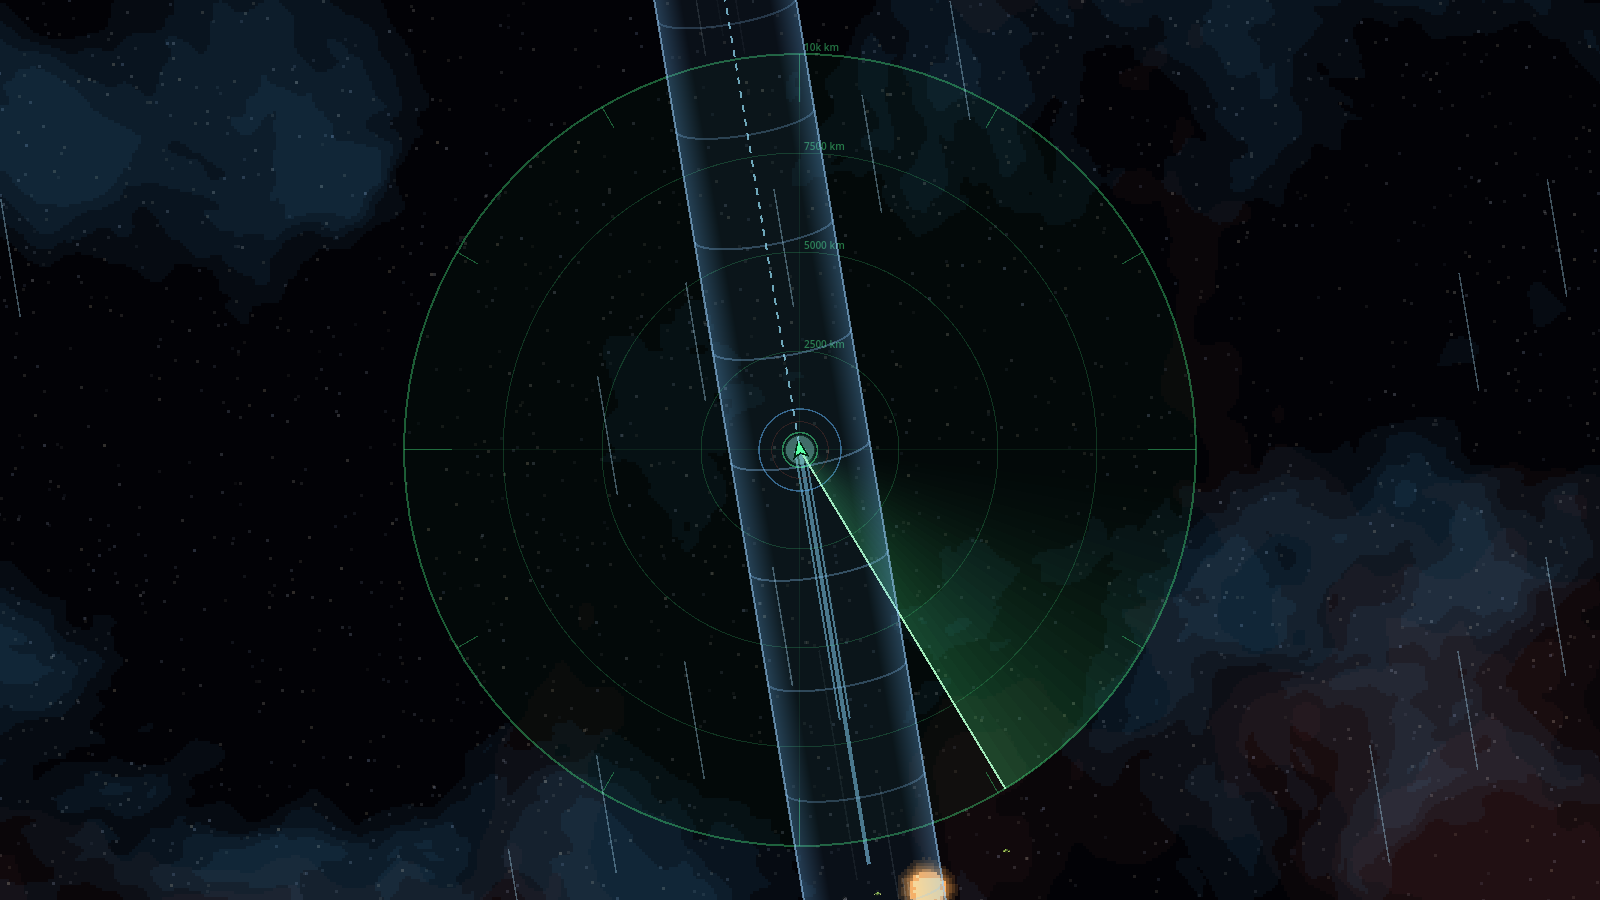
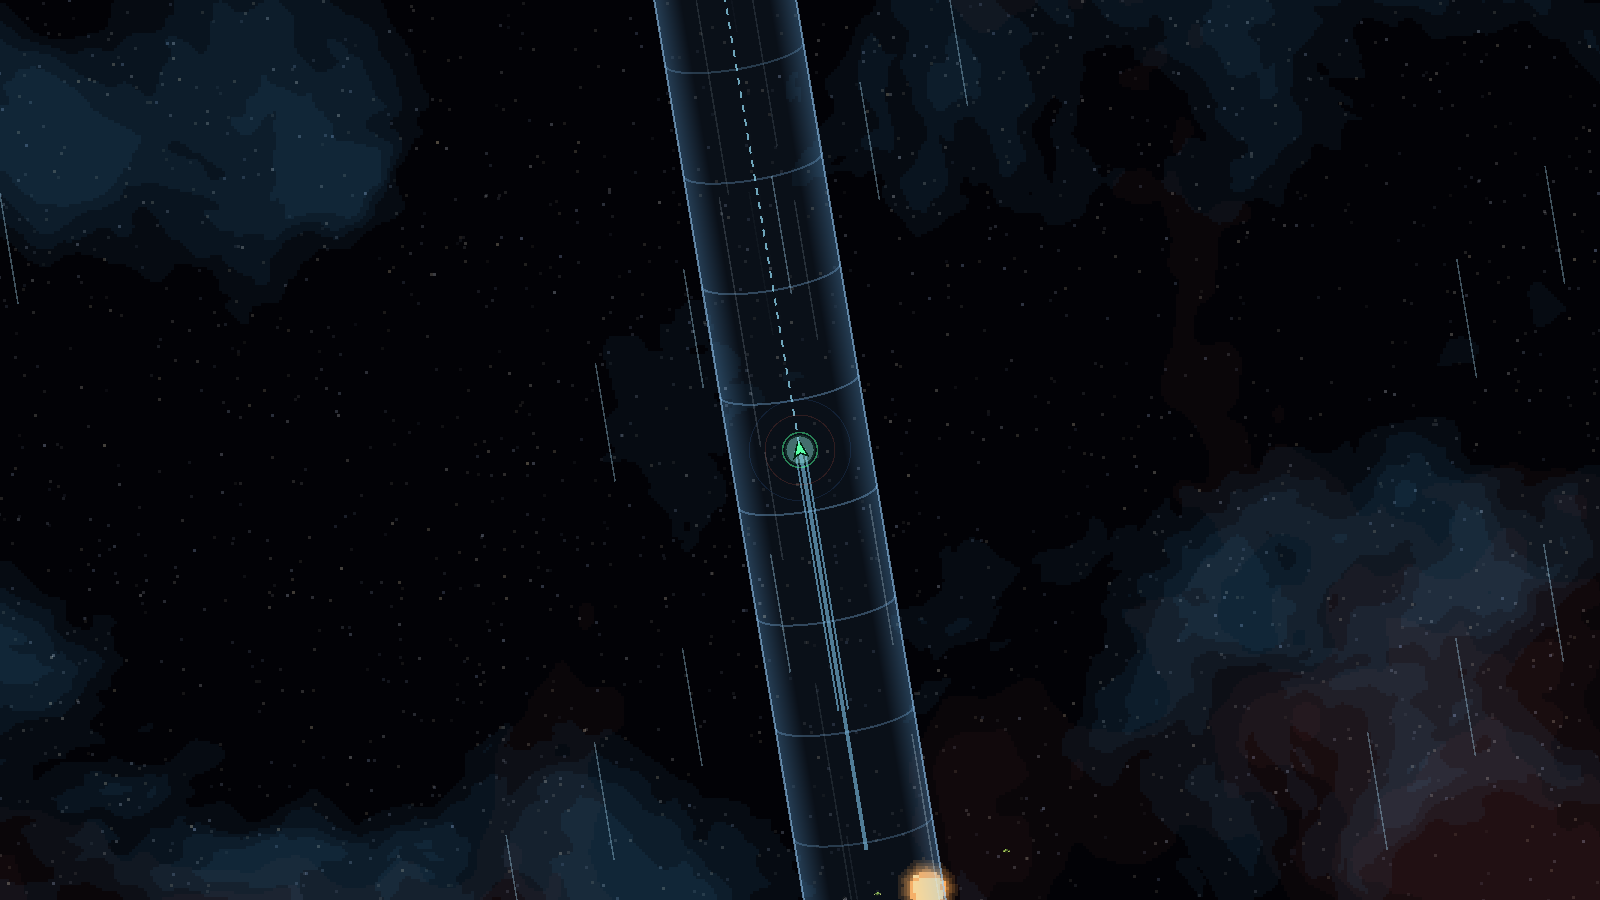
alpha 0.6.35.8: no radar during a warp

diff --git a/Roadmap.md b/Roadmap.md
@@ -17,7 +17,7 @@ Sternenfront ist ein Einzelspieler-Spiel mit zuschaltbarem Koop – wie Valheim 
 
 ## Aktueller Stand
 
-Das Spiel ist ein umfangreicher Einzelspieler-Prototyp in Godot 4.3. Phase 0 und Phase 0.5 Teil 1 bis 3 sind abgeschlossen; Teil 4 (Module and Internal Ship Parts Rework) läuft – Pakete 19 bis 24 fertig, Pakete 25a (KHI-Bergbauschiffe), 25b (Kanayama-maru), 25c (Maison Aurelle), 25d (Hadrian Dynamics), 25e (Concord Fleetworks), 25f (Forge of Return) und 25g (Axiom Astronautics) fertig – damit sind alle Manufakturen gebaut; Paket 26 (Stationstyp 0: Raststationen mit Landeplattformen) fertig; Paket 27 (Stationsübersicht, Ausrüster, Kurzbeschreibungen, Geschwindigkeit) fertig – damit sind alle Pakete von Teil 4 umgesetzt. Code-Review von Teil 4 gemacht (Bericht `reviews/teil4_review.md`), alle Befunde sind abgearbeitet (0.4.25.46 und 0.4.25.47) – Teil 4 abgeschlossen. **Teil 5 läuft:** Paket 28a (Audio-Grundgerüst), die Menüsteuerung per Tastatur und Paket 28 (Pilot & Charaktererstellung) und Paket 29 (Fähigkeiten + Pilot-Fenster) fertig, Fortschritts-Mechanik am 7. Nov neu entschieden (Fähigkeiten automatisch, Pilotenlevel, Perks, Skilltree über Leistungen); Paket 30 (Perks, Skilltree über Leistungen, Baupläne) fertig und der Skilltree in 0.5.30.2 als gezeichneter Baum nach Tätigkeiten neu gebaut (alles kaufbar, nutzbar erst mit Kachel), Paket 31 (Crew-System & The Bar, mit 32 zusammengelegt) fertig, Paket 31a (Game Over: Rettungskapseln, Rückkauf, Respawn) fertig, Paket 33 (Wingmen und Citadel-Plattform) fertig, Paket 34 (Codex-Einträge, Sammlung, berüchtigte Piraten als Charaktere mit Wild-West-Steckbrief) fertig – damit sind alle Pakete von Teil 5 umgesetzt. Code-Review von Teil 5 gemacht (Bericht `reviews/teil5_review.md`), alle Befunde in 0.5.34.4 behoben – **Teil 5 abgeschlossen**. **Teil 6 läuft:** Paket 35 (Systeme ×3, Asteroiden- und Kuipergürtel, neue Asteroidenfelder, mehr Verkehr, Ladebildschirm und Vorladen) fertig. Netzwerk fehlt noch. Teile 5–9 sind geplant (aus dem Roadmap-Entwurf übernommen, zuletzt am 7. Nov 2026: Teile 8 und 9, Audio-Grundgerüst 28a, Lade-Grundlagen in Paket 35, Code-Review am Ende jedes Teils), Phase 1 und 2 getauscht (erst Story & Endgame, dann Koop). Version alpha 0.6.35.7. Stand 8. November 2026.
+Das Spiel ist ein umfangreicher Einzelspieler-Prototyp in Godot 4.3. Phase 0 und Phase 0.5 Teil 1 bis 3 sind abgeschlossen; Teil 4 (Module and Internal Ship Parts Rework) läuft – Pakete 19 bis 24 fertig, Pakete 25a (KHI-Bergbauschiffe), 25b (Kanayama-maru), 25c (Maison Aurelle), 25d (Hadrian Dynamics), 25e (Concord Fleetworks), 25f (Forge of Return) und 25g (Axiom Astronautics) fertig – damit sind alle Manufakturen gebaut; Paket 26 (Stationstyp 0: Raststationen mit Landeplattformen) fertig; Paket 27 (Stationsübersicht, Ausrüster, Kurzbeschreibungen, Geschwindigkeit) fertig – damit sind alle Pakete von Teil 4 umgesetzt. Code-Review von Teil 4 gemacht (Bericht `reviews/teil4_review.md`), alle Befunde sind abgearbeitet (0.4.25.46 und 0.4.25.47) – Teil 4 abgeschlossen. **Teil 5 läuft:** Paket 28a (Audio-Grundgerüst), die Menüsteuerung per Tastatur und Paket 28 (Pilot & Charaktererstellung) und Paket 29 (Fähigkeiten + Pilot-Fenster) fertig, Fortschritts-Mechanik am 7. Nov neu entschieden (Fähigkeiten automatisch, Pilotenlevel, Perks, Skilltree über Leistungen); Paket 30 (Perks, Skilltree über Leistungen, Baupläne) fertig und der Skilltree in 0.5.30.2 als gezeichneter Baum nach Tätigkeiten neu gebaut (alles kaufbar, nutzbar erst mit Kachel), Paket 31 (Crew-System & The Bar, mit 32 zusammengelegt) fertig, Paket 31a (Game Over: Rettungskapseln, Rückkauf, Respawn) fertig, Paket 33 (Wingmen und Citadel-Plattform) fertig, Paket 34 (Codex-Einträge, Sammlung, berüchtigte Piraten als Charaktere mit Wild-West-Steckbrief) fertig – damit sind alle Pakete von Teil 5 umgesetzt. Code-Review von Teil 5 gemacht (Bericht `reviews/teil5_review.md`), alle Befunde in 0.5.34.4 behoben – **Teil 5 abgeschlossen**. **Teil 6 läuft:** Paket 35 (Systeme ×3, Asteroiden- und Kuipergürtel, neue Asteroidenfelder, mehr Verkehr, Ladebildschirm und Vorladen) fertig. Netzwerk fehlt noch. Teile 5–9 sind geplant (aus dem Roadmap-Entwurf übernommen, zuletzt am 7. Nov 2026: Teile 8 und 9, Audio-Grundgerüst 28a, Lade-Grundlagen in Paket 35, Code-Review am Ende jedes Teils), Phase 1 und 2 getauscht (erst Story & Endgame, dann Koop). Version alpha 0.6.35.8. Stand 8. November 2026.
 
 | Bereich | Stand |
 | --- | --- |
@@ -1461,7 +1461,7 @@ Jedes Paket mit eigenen Debug-Funktionen (z. B. zu jedem Systemtyp springen, Ste
 - [x] **Asteroidenfelder neu:** Metall- und Gesteinsfelder liegen **im Asteroidengürtel**, Eisfelder **im Kuipergürtel** (ohne Gürtel wie bisher in Bahnzonen). Radius 20.000–40.000 km statt 10.000–16.000, im Schnitt dichter (≈ 0,22 Brocken je 1.000 km², eng geklumpt) und in **fünf Stilen**: Clustered, Band (entlang der Bahn gestreckt), Dense Core (dichter Kern mit mehr großen Brocken), Boulder Field (wenige große) und Gravel Field (viele kleine). Der Stil steht im Feldnamen.
 - [x] **0.6.35.4 (Wunsch Luz):** Felder **kompakter und strukturierter** – Radius 12.000–22.000 km, darin viele kleine Strukturen (dichte Knoten, Haufen, Ketten) mit freien Flächen dazwischen; etwa 0,9 Brocken je 1.000 km², an manchen Stellen sehr dicht. **Mehr Colossi:** jedes Feld hat jetzt 3–5 (in gesetzlosen Systemen einen mehr), über das Feld verteilt.
 - [x] **0.6.35.5 (Wunsch Luz):** **Radarschatten** enden jetzt am Rand der Radarreichweite. **Zwei neue Colossus-Formen je Gesteinsart** (mit passendem Radarschatten): Metall – Platte und Spindel, Gestein – Geröllhaufen und Niere, Eis – Tropfen (gefrorener Komet) und Kristall mit Stacheln (seit 0.6.35.6 eine runde Eiskugel mit sanften Beulen – die Sternform war zu viel). **Colossi sind abbaubar** (sperrbar, Prospektor und Bergbaulaser, Abstand zur Oberfläche zählt): riesiger Vorrat aus zwei Erzen des Feldes; leer bleiben sie stehen und zeigen im Scanner „empty“. **Kleine Asteroiden zerbrechen**, wenn sie leer sind – die Stücke treiben auseinander und verblassen – und wachsen nach **30–60 Minuten** nach (gewichteter Zufall, kleinere eher). Leere Colossi und zerbrochene Asteroiden werden mitgespeichert.
-- [x] **0.6.35.7 – Warp (Wunsch Luz):** Die Kamera bleibt beim Warp auf **Kampfnähe** (kein automatisches Herauszoomen mehr); herauszoomen kann man jederzeit selbst – in **Recon ist das Radar jetzt auch während des Warps zu sehen** (es verschwand, weil die Kamera automatisch bis zur Systemkarte hinauszoomte). Neue **Warp-Animation:** um das Schiff bildet sich ein **blauer, leicht durchsichtiger Tunnel** – Wände entlang des Kurses, Ringe und Streifen, die nach hinten vorbeiziehen, ein Bugleuchten; er baut sich am Anfang auf und verblasst vor der Ankunft.
+- [x] **0.6.35.7 – Warp (Wunsch Luz):** Die Kamera bleibt beim Warp auf **Kampfnähe** (kein automatisches Herauszoomen mehr); herauszoomen kann man jederzeit selbst. **Während des Warps ist das Radar ausgeblendet** (0.6.35.8 – in 0.6.35.7 versehentlich eingeblendet). Neue **Warp-Animation:** um das Schiff bildet sich ein **blauer, leicht durchsichtiger Tunnel** – Wände entlang des Kurses, Ringe und Streifen, die nach hinten vorbeiziehen, ein Bugleuchten; er baut sich am Anfang auf und verblasst vor der Ankunft.
 - [x] **Mehr Verkehr:** Shuttles, Bergbauschiffe, wartende Frachter, Feld- und Torwachen, Piraten etwa anderthalbfach; Obergrenze 60 → 90 Schiffe je System.
 - [x] **Laden:** kurzer **Ladebildschirm** beim Start aus dem Hauptmenü; dahinter werden alle Asteroidenbilder des Systems vorab erzeugt und der **Colossus-Shader vorkompiliert** – der Ruckler beim Einfliegen in Felder mit Colossi ist weg. Beim **Hypersprung** wird das Zielsystem während des Tunnels vorbereitet. Unsichtbare Asteroiden kosten keine Rechenzeit mehr.
 - [x] **0.6.35.2/.3:** Die Systemkarte ist wieder **auf das eigene Schiff zentriert** – Godots Standard-Kameragrenze von ±10 Mio. km hatte die Karte der größeren Systeme zur Seite geschoben (die kurzzeitige Zentrierung auf den Stern in 0.6.35.2 ist wieder raus).

diff --git a/CHANGELOG.md b/CHANGELOG.md
@@ -3,6 +3,10 @@
 Versions follow **alpha Phase.Teil.Paket.laufende Nummer** (see Roadmap.md → Arbeitsweise & Übergabe).
 Every update gets its own entry, a commit and a git tag `v<version>`.
 
+## alpha 0.6.35.8 – 2026-11-08
+
+**Warp:** the radar is hidden during a warp (it showed in recon by mistake in 0.6.35.7).
+
 ## alpha 0.6.35.7 – 2026-11-08
 
 **Warp:** the camera stays at close range (zoom out by hand whenever you like – the radar now shows in recon during
